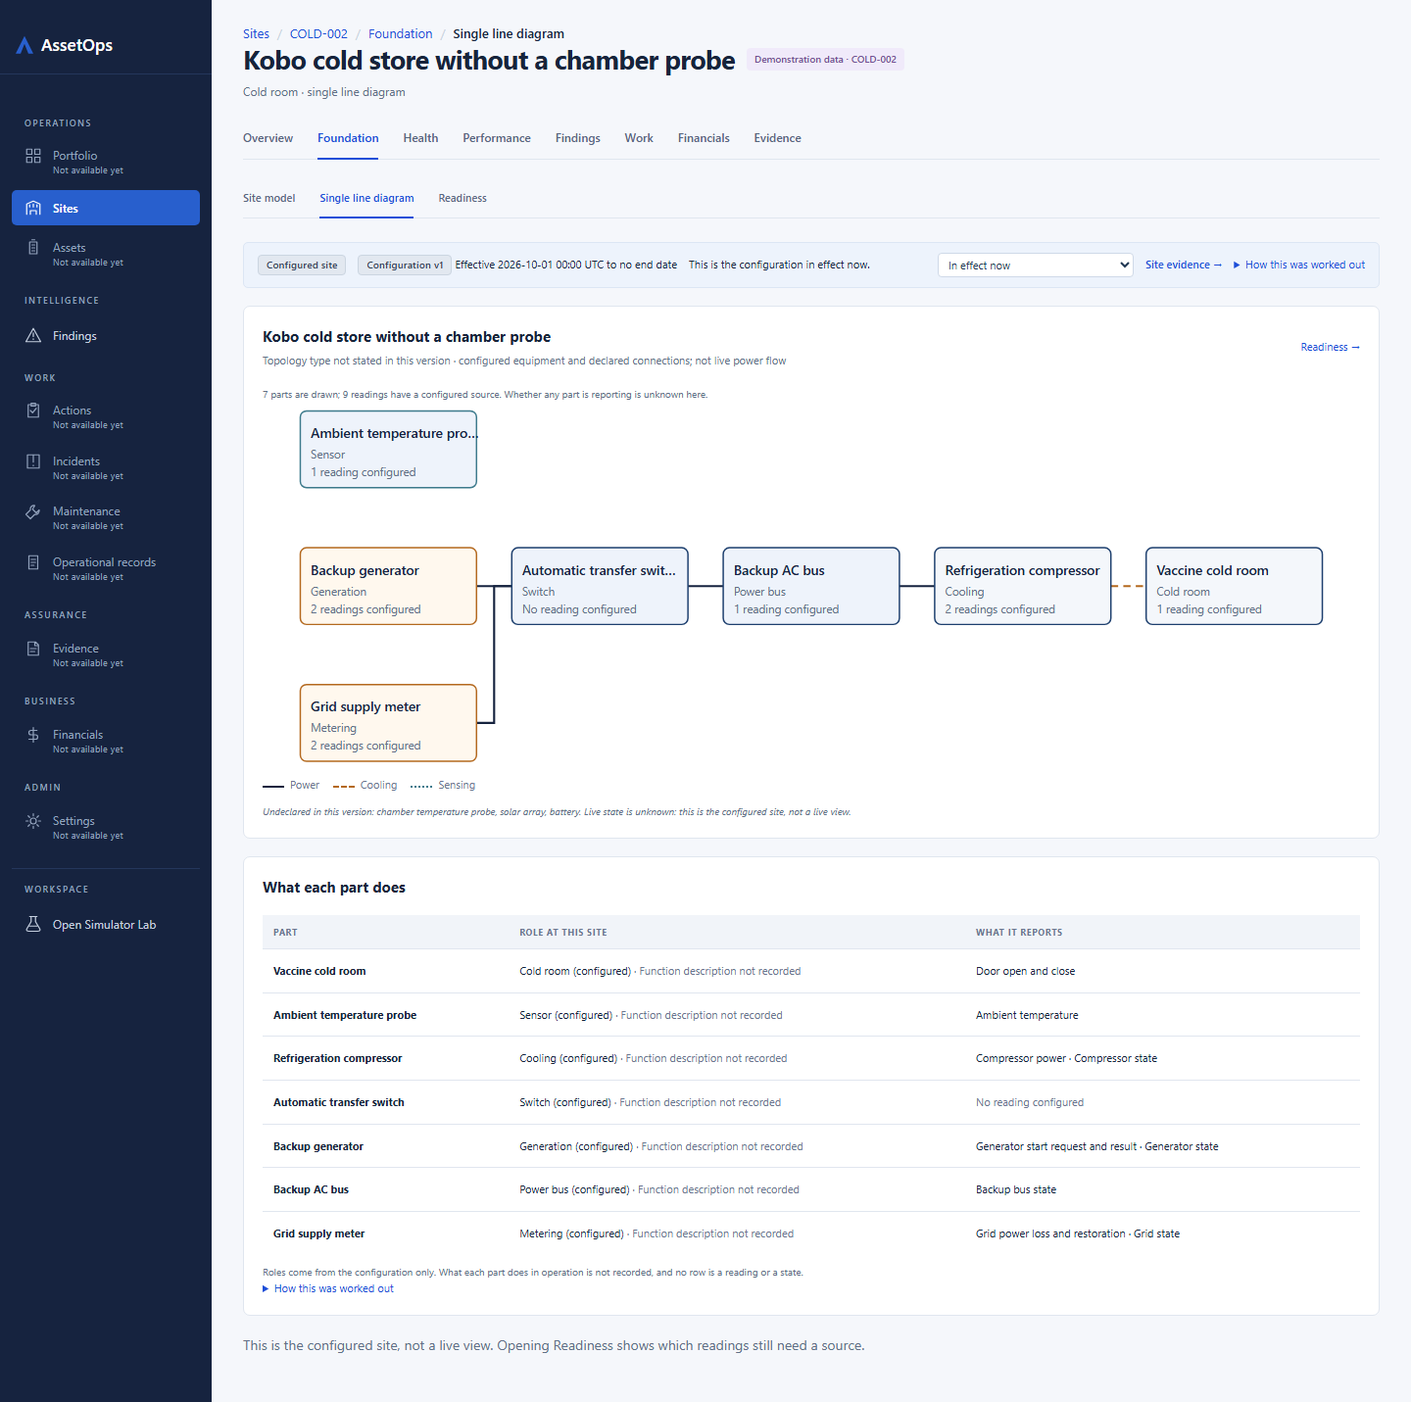
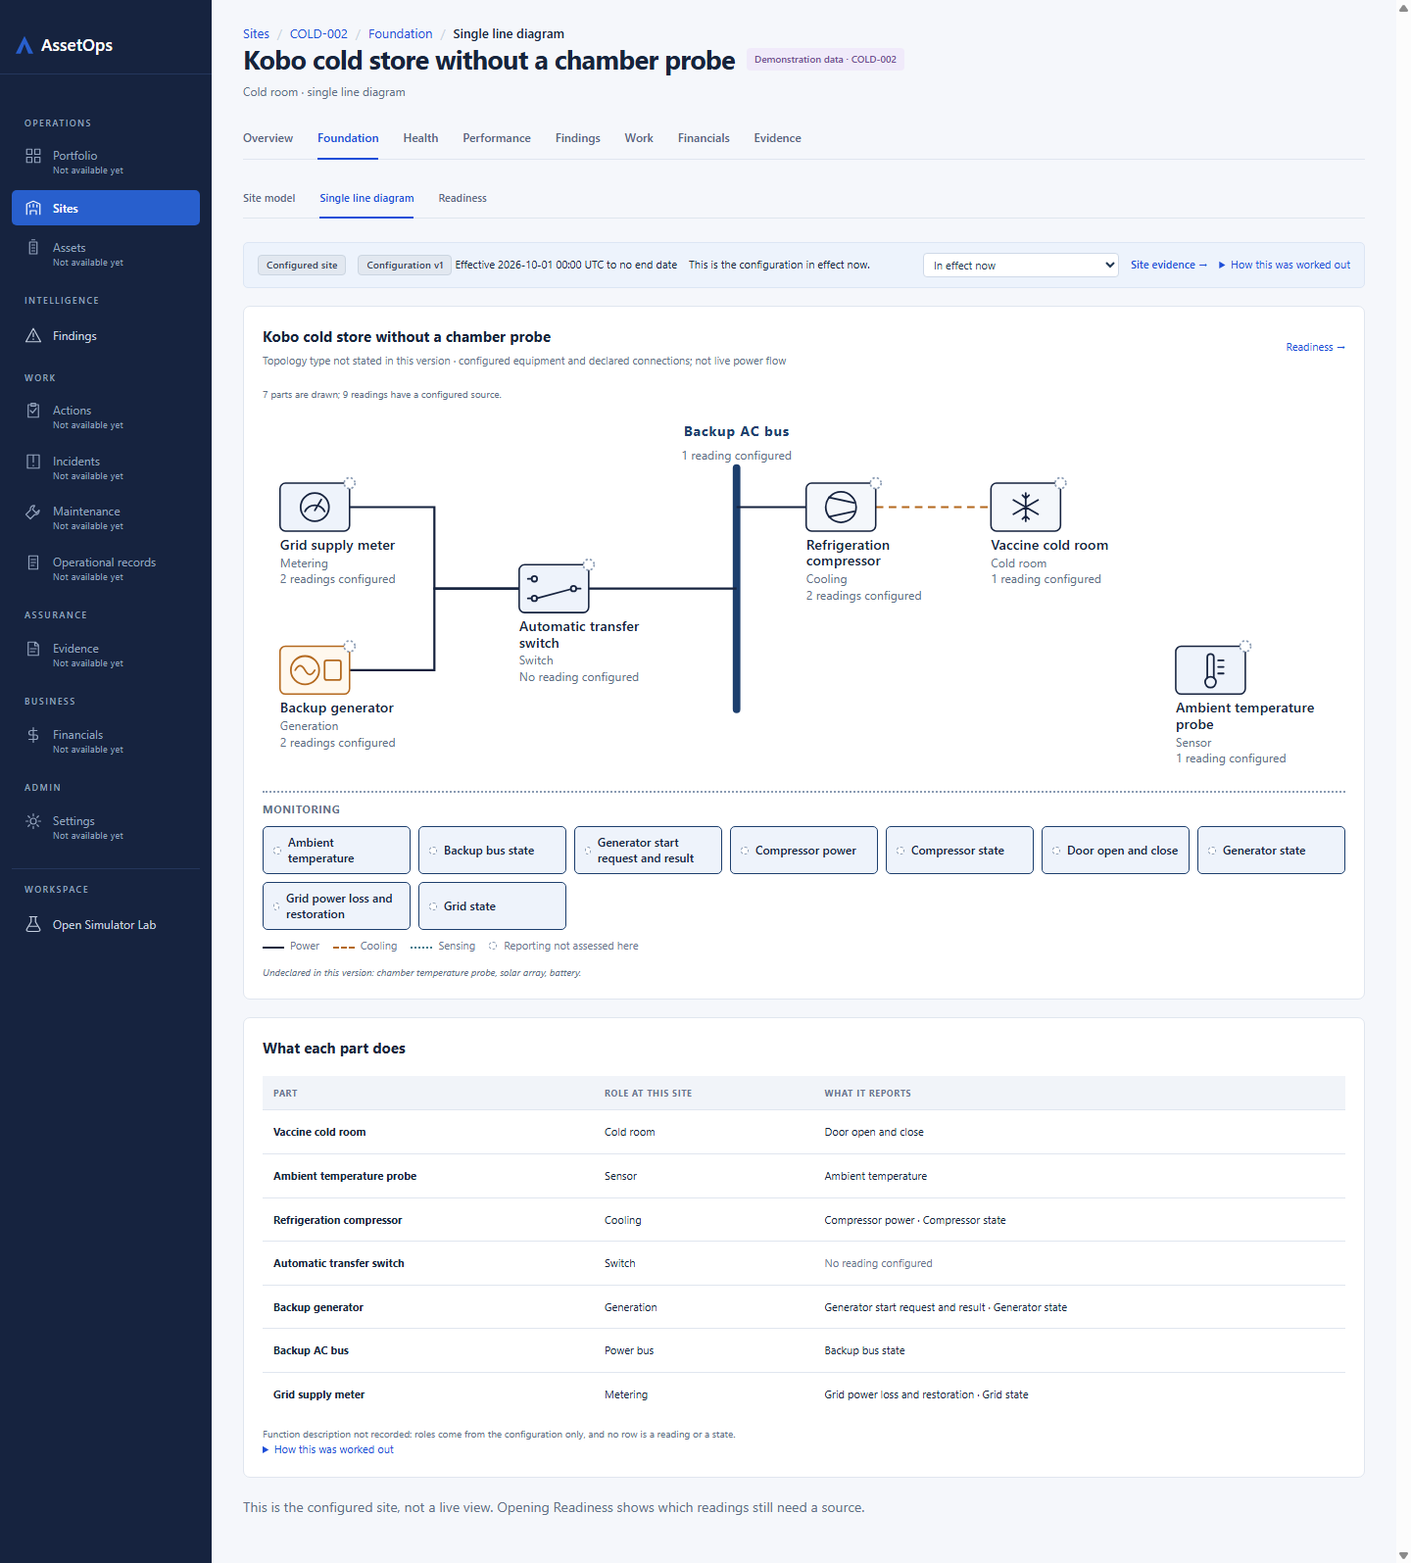
W2-01 fix round: packet fix table, heights and recaptured 1440/390 cold evidence (108/108)

diff --git a/.agent/W2-01-evidence/index.html b/.agent/W2-01-evidence/index.html
@@ -1,73 +1,73 @@
 <!doctype html><meta charset="utf-8"><title>W1 fidelity pairs</title><style>body{font:13px system-ui;margin:16px}.pair{display:grid;grid-template-columns:1fr 1fr;gap:12px;align-items:start}img{width:100%;border:1px solid #ccc}figure{margin:0}</style>
-<p>Revision e5162465 · captured 2026-10-17T11:49:58.773Z</p><section><h2>cold-foundation (stocked) · 1440x1000</h2>
+<p>Revision e52d035e · captured 2026-10-17T15:34:30.152Z</p><section><h2>cold-foundation (stocked) · 1440x1000</h2>
 <p>App: Physical site | Operating interpretation<br>Mock: Physical site | Operating interpretation</p>
-<div class="pair"><figure><figcaption>App http://localhost:5475/sites/COLD-001/foundation</figcaption><img src="cold-foundation-stocked-1440-app.png"></figure>
+<div class="pair"><figure><figcaption>App http://localhost:5912/sites/COLD-001/foundation</figcaption><img src="cold-foundation-stocked-1440-app.png"></figure>
 <figure><figcaption>Mock #/cold-foundation</figcaption><img src="cold-foundation-stocked-1440-mock.png"></figure></div></section>
 <section><h2>cold-foundation (stocked) · 390x900</h2>
 <p>App: Physical site | Operating interpretation<br>Mock: Physical site | Operating interpretation</p>
-<div class="pair"><figure><figcaption>App http://localhost:5475/sites/COLD-001/foundation</figcaption><img src="cold-foundation-stocked-390-app.png"></figure>
+<div class="pair"><figure><figcaption>App http://localhost:5912/sites/COLD-001/foundation</figcaption><img src="cold-foundation-stocked-390-app.png"></figure>
 <figure><figcaption>Mock #/cold-foundation</figcaption><img src="cold-foundation-stocked-390-mock.png"></figure></div></section>
 <section><h2>cold-foundation (missing-probe) · 1440x1000</h2>
 <p>App: Physical site | Operating interpretation<br>Mock: Physical site | Operating interpretation</p>
-<div class="pair"><figure><figcaption>App http://localhost:5475/sites/COLD-002/foundation</figcaption><img src="cold-foundation-missing-probe-1440-app.png"></figure>
+<div class="pair"><figure><figcaption>App http://localhost:5912/sites/COLD-002/foundation</figcaption><img src="cold-foundation-missing-probe-1440-app.png"></figure>
 <figure><figcaption>Mock #/cold-foundation</figcaption><img src="cold-foundation-missing-probe-1440-mock.png"></figure></div></section>
 <section><h2>cold-foundation (missing-probe) · 390x900</h2>
 <p>App: Physical site | Operating interpretation<br>Mock: Physical site | Operating interpretation</p>
-<div class="pair"><figure><figcaption>App http://localhost:5475/sites/COLD-002/foundation</figcaption><img src="cold-foundation-missing-probe-390-app.png"></figure>
+<div class="pair"><figure><figcaption>App http://localhost:5912/sites/COLD-002/foundation</figcaption><img src="cold-foundation-missing-probe-390-app.png"></figure>
 <figure><figcaption>Mock #/cold-foundation</figcaption><img src="cold-foundation-missing-probe-390-mock.png"></figure></div></section>
 <section><h2>cold-foundation (no-version) · 1440x1000</h2>
 <p>App: Physical site | Operating interpretation<br>Mock: Physical site | Operating interpretation</p>
-<div class="pair"><figure><figcaption>App http://localhost:5475/sites/COLD-001/foundation?at=2026-09-01T00:00:00Z</figcaption><img src="cold-foundation-no-version-1440-app.png"></figure>
+<div class="pair"><figure><figcaption>App http://localhost:5912/sites/COLD-001/foundation?at=2026-09-01T00:00:00Z</figcaption><img src="cold-foundation-no-version-1440-app.png"></figure>
 <figure><figcaption>Mock #/cold-foundation</figcaption><img src="cold-foundation-no-version-1440-mock.png"></figure></div></section>
 <section><h2>cold-foundation (no-version) · 390x900</h2>
 <p>App: Physical site | Operating interpretation<br>Mock: Physical site | Operating interpretation</p>
-<div class="pair"><figure><figcaption>App http://localhost:5475/sites/COLD-001/foundation?at=2026-09-01T00:00:00Z</figcaption><img src="cold-foundation-no-version-390-app.png"></figure>
+<div class="pair"><figure><figcaption>App http://localhost:5912/sites/COLD-001/foundation?at=2026-09-01T00:00:00Z</figcaption><img src="cold-foundation-no-version-390-app.png"></figure>
 <figure><figcaption>Mock #/cold-foundation</figcaption><img src="cold-foundation-no-version-390-mock.png"></figure></div></section>
 <section><h2>cold-readiness (stocked) · 1440x1000</h2>
 <p>App: Readiness and commissioning evidence | Gateway status · edge-cold-001 | Connected sources | Effect on readiness and confidence<br>Mock: Readiness and commissioning evidence | Gateway status · GW-CR-01 | Connected sources | Effect on readiness and confidence</p>
-<div class="pair"><figure><figcaption>App http://localhost:5475/sites/COLD-001/foundation/readiness</figcaption><img src="cold-readiness-stocked-1440-app.png"></figure>
+<div class="pair"><figure><figcaption>App http://localhost:5912/sites/COLD-001/foundation/readiness</figcaption><img src="cold-readiness-stocked-1440-app.png"></figure>
 <figure><figcaption>Mock #/cold-readiness</figcaption><img src="cold-readiness-stocked-1440-mock.png"></figure></div></section>
 <section><h2>cold-readiness (stocked) · 390x900</h2>
 <p>App: Readiness and commissioning evidence | Gateway status · edge-cold-001 | Connected sources | Effect on readiness and confidence<br>Mock: Readiness and commissioning evidence | Gateway status · GW-CR-01 | Connected sources | Effect on readiness and confidence</p>
-<div class="pair"><figure><figcaption>App http://localhost:5475/sites/COLD-001/foundation/readiness</figcaption><img src="cold-readiness-stocked-390-app.png"></figure>
+<div class="pair"><figure><figcaption>App http://localhost:5912/sites/COLD-001/foundation/readiness</figcaption><img src="cold-readiness-stocked-390-app.png"></figure>
 <figure><figcaption>Mock #/cold-readiness</figcaption><img src="cold-readiness-stocked-390-mock.png"></figure></div></section>
 <section><h2>cold-readiness (missing-probe) · 1440x1000</h2>
 <p>App: Readiness and commissioning evidence | Gateway status · edge-cold-002 | Connected sources | Effect on readiness and confidence<br>Mock: Readiness and commissioning evidence | Gateway status · GW-CR-01 | Connected sources | Effect on readiness and confidence</p>
-<div class="pair"><figure><figcaption>App http://localhost:5475/sites/COLD-002/foundation/readiness</figcaption><img src="cold-readiness-missing-probe-1440-app.png"></figure>
+<div class="pair"><figure><figcaption>App http://localhost:5912/sites/COLD-002/foundation/readiness</figcaption><img src="cold-readiness-missing-probe-1440-app.png"></figure>
 <figure><figcaption>Mock #/cold-readiness</figcaption><img src="cold-readiness-missing-probe-1440-mock.png"></figure></div></section>
 <section><h2>cold-readiness (missing-probe) · 390x900</h2>
 <p>App: Readiness and commissioning evidence | Gateway status · edge-cold-002 | Connected sources | Effect on readiness and confidence<br>Mock: Readiness and commissioning evidence | Gateway status · GW-CR-01 | Connected sources | Effect on readiness and confidence</p>
-<div class="pair"><figure><figcaption>App http://localhost:5475/sites/COLD-002/foundation/readiness</figcaption><img src="cold-readiness-missing-probe-390-app.png"></figure>
+<div class="pair"><figure><figcaption>App http://localhost:5912/sites/COLD-002/foundation/readiness</figcaption><img src="cold-readiness-missing-probe-390-app.png"></figure>
 <figure><figcaption>Mock #/cold-readiness</figcaption><img src="cold-readiness-missing-probe-390-mock.png"></figure></div></section>
 <section><h2>cold-readiness (no-version) · 1440x1000</h2>
 <p>App: Readiness and commissioning evidence | Gateway status · edge-cold-001 | Connected sources | Effect on readiness and confidence<br>Mock: Readiness and commissioning evidence | Gateway status · GW-CR-01 | Connected sources | Effect on readiness and confidence</p>
-<div class="pair"><figure><figcaption>App http://localhost:5475/sites/COLD-001/foundation/readiness?at=2026-09-01T00:00:00Z</figcaption><img src="cold-readiness-no-version-1440-app.png"></figure>
+<div class="pair"><figure><figcaption>App http://localhost:5912/sites/COLD-001/foundation/readiness?at=2026-09-01T00:00:00Z</figcaption><img src="cold-readiness-no-version-1440-app.png"></figure>
 <figure><figcaption>Mock #/cold-readiness</figcaption><img src="cold-readiness-no-version-1440-mock.png"></figure></div></section>
 <section><h2>cold-readiness (no-version) · 390x900</h2>
 <p>App: Readiness and commissioning evidence | Gateway status · edge-cold-001 | Connected sources | Effect on readiness and confidence<br>Mock: Readiness and commissioning evidence | Gateway status · GW-CR-01 | Connected sources | Effect on readiness and confidence</p>
-<div class="pair"><figure><figcaption>App http://localhost:5475/sites/COLD-001/foundation/readiness?at=2026-09-01T00:00:00Z</figcaption><img src="cold-readiness-no-version-390-app.png"></figure>
+<div class="pair"><figure><figcaption>App http://localhost:5912/sites/COLD-001/foundation/readiness?at=2026-09-01T00:00:00Z</figcaption><img src="cold-readiness-no-version-390-app.png"></figure>
 <figure><figcaption>Mock #/cold-readiness</figcaption><img src="cold-readiness-no-version-390-mock.png"></figure></div></section>
 <section><h2>cold-sld (stocked) · 1440x1000</h2>
 <p>App: Kobo vaccine cold store | What each part does<br>Mock: GreenHarvest Cold Room · Hybrid cold room: solar, battery, grid and diesel backup | What each part does</p>
-<div class="pair"><figure><figcaption>App http://localhost:5475/sites/COLD-001/foundation/sld</figcaption><img src="cold-sld-stocked-1440-app.png"></figure>
+<div class="pair"><figure><figcaption>App http://localhost:5912/sites/COLD-001/foundation/sld</figcaption><img src="cold-sld-stocked-1440-app.png"></figure>
 <figure><figcaption>Mock #/cold-sld</figcaption><img src="cold-sld-stocked-1440-mock.png"></figure></div></section>
 <section><h2>cold-sld (stocked) · 390x900</h2>
 <p>App: Kobo vaccine cold store | What each part does<br>Mock: GreenHarvest Cold Room · Hybrid cold room: solar, battery, grid and diesel backup | What each part does</p>
-<div class="pair"><figure><figcaption>App http://localhost:5475/sites/COLD-001/foundation/sld</figcaption><img src="cold-sld-stocked-390-app.png"></figure>
+<div class="pair"><figure><figcaption>App http://localhost:5912/sites/COLD-001/foundation/sld</figcaption><img src="cold-sld-stocked-390-app.png"></figure>
 <figure><figcaption>Mock #/cold-sld</figcaption><img src="cold-sld-stocked-390-mock.png"></figure></div></section>
 <section><h2>cold-sld (missing-probe) · 1440x1000</h2>
 <p>App: Kobo cold store without a chamber probe | What each part does<br>Mock: GreenHarvest Cold Room · Hybrid cold room: solar, battery, grid and diesel backup | What each part does</p>
-<div class="pair"><figure><figcaption>App http://localhost:5475/sites/COLD-002/foundation/sld</figcaption><img src="cold-sld-missing-probe-1440-app.png"></figure>
+<div class="pair"><figure><figcaption>App http://localhost:5912/sites/COLD-002/foundation/sld</figcaption><img src="cold-sld-missing-probe-1440-app.png"></figure>
 <figure><figcaption>Mock #/cold-sld</figcaption><img src="cold-sld-missing-probe-1440-mock.png"></figure></div></section>
 <section><h2>cold-sld (missing-probe) · 390x900</h2>
 <p>App: Kobo cold store without a chamber probe | What each part does<br>Mock: GreenHarvest Cold Room · Hybrid cold room: solar, battery, grid and diesel backup | What each part does</p>
-<div class="pair"><figure><figcaption>App http://localhost:5475/sites/COLD-002/foundation/sld</figcaption><img src="cold-sld-missing-probe-390-app.png"></figure>
+<div class="pair"><figure><figcaption>App http://localhost:5912/sites/COLD-002/foundation/sld</figcaption><img src="cold-sld-missing-probe-390-app.png"></figure>
 <figure><figcaption>Mock #/cold-sld</figcaption><img src="cold-sld-missing-probe-390-mock.png"></figure></div></section>
 <section><h2>cold-sld (no-version) · 1440x1000</h2>
 <p>App: Kobo vaccine cold store | What each part does<br>Mock: GreenHarvest Cold Room · Hybrid cold room: solar, battery, grid and diesel backup | What each part does</p>
-<div class="pair"><figure><figcaption>App http://localhost:5475/sites/COLD-001/foundation/sld?at=2026-09-01T00:00:00Z</figcaption><img src="cold-sld-no-version-1440-app.png"></figure>
+<div class="pair"><figure><figcaption>App http://localhost:5912/sites/COLD-001/foundation/sld?at=2026-09-01T00:00:00Z</figcaption><img src="cold-sld-no-version-1440-app.png"></figure>
 <figure><figcaption>Mock #/cold-sld</figcaption><img src="cold-sld-no-version-1440-mock.png"></figure></div></section>
 <section><h2>cold-sld (no-version) · 390x900</h2>
 <p>App: Kobo vaccine cold store | What each part does<br>Mock: GreenHarvest Cold Room · Hybrid cold room: solar, battery, grid and diesel backup | What each part does</p>
-<div class="pair"><figure><figcaption>App http://localhost:5475/sites/COLD-001/foundation/sld?at=2026-09-01T00:00:00Z</figcaption><img src="cold-sld-no-version-390-app.png"></figure>
+<div class="pair"><figure><figcaption>App http://localhost:5912/sites/COLD-001/foundation/sld?at=2026-09-01T00:00:00Z</figcaption><img src="cold-sld-no-version-390-app.png"></figure>
 <figure><figcaption>Mock #/cold-sld</figcaption><img src="cold-sld-no-version-390-mock.png"></figure></div></section>

diff --git a/.agent/W2-01-review-packet.md b/.agent/W2-01-review-packet.md
@@ -49,17 +49,60 @@ Task: `tasks/W2-01-cold-foundation.md` (two phases). Branch `task/W2-01-cold-fou
 2. Gateway title identity: the store has no gateway display name, so `cold-readiness:2` uses `gateway_external_id` from `/gateway-health` (fallback "No gateway selected"); this is a current read, not as of `at`.
 3. `cold-sld:1` is the Site name alone: the Foundation declares no topology type.
 4. Site name comes from the current Site record, not the selected revision (no name field in the cold read).
-5. Readiness table areas (Site definition, chamber probe, compressor, grid, backup generator and bus, transfer switch, door/loading log, ambient) group `cold-roles-1` roles; grouping and the "(optional)" marking are presentation choices, not specified. Mock has 4 illustrative rows; the app shows 8, so the table is taller than the mock.
+5. Readiness table areas (Site definition, chamber probe, compressor, grid, backup generator and bus, transfer switch, door/loading log, manual temperature log (own row since the fix round), ambient) group `cold-roles-1` roles; grouping and the "(optional)" marking are presentation choices, not specified. Mock has 4 illustrative rows; the app shows 9, so the table is taller than the mock.
 6. Foundation panel 2 row "Door and loading observations" replaces the mock's "Loading observations": the capture tool's readiness check treats any "Loading" text as a page still loading.
-7. The configured drawing is a layered box diagram of declared nodes/edges, not the mock's bus-bar SLD; it is shorter than the mock's drawing because only declared parts are drawn. Below 760 px it keeps a readable scale and scrolls inside its own keyboard-focusable region.
+7. (Superseded by the fix round, H1.) The drawing is now the bus-bar SLD, scaled to fit at every width. Placement is by declared node role: supplies left, switch, vertical bar, cooling chain right. A part with no declared connection (the ambient probe) sits below the chain with no line. The mock's circuit breakers are not drawn: no protection is declared (G-sld-protection-metering).
 8. Gateway metric cards Availability/Data completeness/Clock show "Not available"/"Unknown" with a plain note; no MissingClaim placement was added for these cold cards (no catalogued gap ID exists for cold; the missing-claim scan passes).
 
 ## Residual risk
 
-- Prominence: SLD drawing (about 320 px at 1440 vs the mock's ~600 px) and the denser readiness table are the panels to judge from the captures.
+- Prominence: the readiness table has 9 rows against the mock's 4. That makes panel 1 about 2.1x the mock at 1440 and 1.5x at 390, although the page as a whole is within budget.
 - The generic Foundation read still answers for cold Sites (with `SITE_TYPE_UNSUPPORTED` in its gaps); only its versions list is used by the cold views.
 - Contact and gateway identity are current facts on historical periods; the panel says so.
 
 ## User-review focus
 
 Walk the three routes for COLD-001 and COLD-002 side by side with `#/cold-foundation`, `#/cold-readiness`, `#/cold-sld` (`.agent/W2-01-evidence/index.html`): top fold, panel widths/heights, the missing-probe and never-contacted wording, and that nothing reads as a temperature, cooling or backup condition.
+
+## Fix round 1 (review `.agent/W2-01-review.md` RETURN)
+
+Commits `79b07ec6`, `b3885275`, `e52d035e`. Frontend only. No backend, registry or guard file is changed: the net diff of `frontend/docs` and `frontend/src/ui/gapCatalogue.ts` against `a4e4cb10` is empty.
+
+| Finding | Fix |
+| --- | --- |
+| H1 `cold-sld` drawing | `ColdTopologyDiagram` (`SiteSingleLineDiagram.tsx`) is redrawn in the mini-grid bus-bar idiom. It uses the existing `ComponentIconShape` icons, plus three new cold shapes (`TEMPERATURE_PROBE`, `COMPRESSOR`, `TRANSFER_SWITCH`) in `componentIcons.tsx`; the mini-grid archetype table is unchanged. It reuses `wrapName`/`NAME_LINE_BUDGET`/`NAME_LINES`, so names wrap and there is no ellipsis, and the `.sld-node__bar` vertical bus. Grid meter and generator feed the transfer switch, the switch feeds the bar, and the compressor leaves the bar on the right with a dashed cooling link to the room and a dotted link to the probe. A "Monitoring" strip has one box per configured source (`bindings`). Each box carries a hollow dashed marker, titled "Reporting not assessed here", and the legend says so; no reporting dot appears anywhere. The SVG scales to fit at every width (no inner scroller). Tests: bar, icons, wrapped names, no "…", strip count and markers, and a lane/row layout unit test. |
+| M2 parts table and 390 density | The per-row "(configured) · Function description not recorded" is removed. `FUNCTION_UNKNOWN` is said once, in the footnote, and the test asserts exactly once. Readiness: the Declared detail sits under the chip as one short line, and a required gap already explained under "What is needed" is not repeated. At 640 px or narrower, cells are compact, the Area column gets a minimum width, the Confirmed and Next step cells do not wrap, and source chips are smaller. Repeated "not a live view" / "reporting unknown" sentences were dropped from the SLD panel; the page footnote keeps them. |
+| Low 3 contradiction | "Manual temperature log" has its own row ("Needs a source" / "Optional"). A Configured row with an unconfigured optional reading says "X (optional) not configured", never "No source". The test asserts no Configured row contains "No source". |
+| Low 5 availability timeline | An empty grey track sits under the gateway cards, labelled "No history to draw", with the mock's legend (Online / Short outage or missing readings / Offline 1 h or more) plus "No history". See deviation 9. |
+| Low 4 contact `state:null` | Not changed; it goes to the Architect (W2-02 batch). |
+
+Deviation 9: the brief asked for "not available yet" on the timeline. That phrase must render through a catalogued `MissingClaim` placement, and `test_mock_gaps.cjs` (Architect C5) fixes `G-readiness-gateway-uptime` at exactly one placement. Adding a cold placement is a registry change for the Architect, so the track states the plain fact "No history to draw". My first attempt added the placement; the mock-gap fixture failed it, and I withdrew it rather than edit the test.
+
+Heights (`node tools/w1-fidelity-evidence.mjs .agent/W2-01-evidence ...`, revision `e52d035e`, API 5911 and web 5912 on the private DB `assetops_w201fixcap`, seeded with the phase-1 CLI and dropped afterwards; CDP 9512; **108/108 claims passed**):
+
+| Route / case | Panel 1 at 1440 (app/mock) | Page at 390 (app/mock) |
+| --- | --- | --- |
+| cold-sld stocked | 709/702 (1.01x; was 479) | 2459/1905 (1.29x) |
+| cold-sld missing-probe | 709/702 | 2424/1905 (1.27x) |
+| cold-readiness stocked | 672/313 (9 rows vs 4) | 3144/2476 (1.27x; was 1.39x) |
+| cold-readiness missing-probe | 690/313 | 3351/2476 (1.35x, about 1.24x net of the about 275 px shell rail; was 1.46x) |
+
+At 390, the SLD drawing fits with no sideways scroll; the cold room and probes are inside the fitted drawing. Panel overflowX is 0 on all 18 captures.
+
+Checks (fix round):
+
+- `npx.cmd tsc --noEmit`: clean.
+- `coldFoundation.test.tsx`: 21 passed, including `expectV69Panels` for all 12 cases.
+- Planted failure, committed first: truncated drawing names, the per-row function text restored, and the manual log merged back into the door row. 3 tests failed; restored with `git checkout --`.
+- Full `npm.cmd test`: at `79b07ec6`, 77 files, 1978 passed. At `e52d035e`, 1977 passed and 1 failed: the known flake `siteFoundationChange` ("Unable to find ... heading Battery reserve"). Rerun alone, it gave 10/10 passed.
+- `tools/check-all.ps1 -Python <plan2 venv>`: 10/10 guards passed at `e52d035e`.
+
+Pre-review self-check:
+- The state line is said once.
+- One disclosure per panel.
+- No leftover labels or h3s.
+- No raw IDs or enums in default copy.
+- No Configured/No source contradiction.
+- The mock's table columns, monitoring strip, legend and timeline are all present.
+- The undeclared-parts and function limits stay visible.
+- Readiness rows at 390 are about 2 lines.
